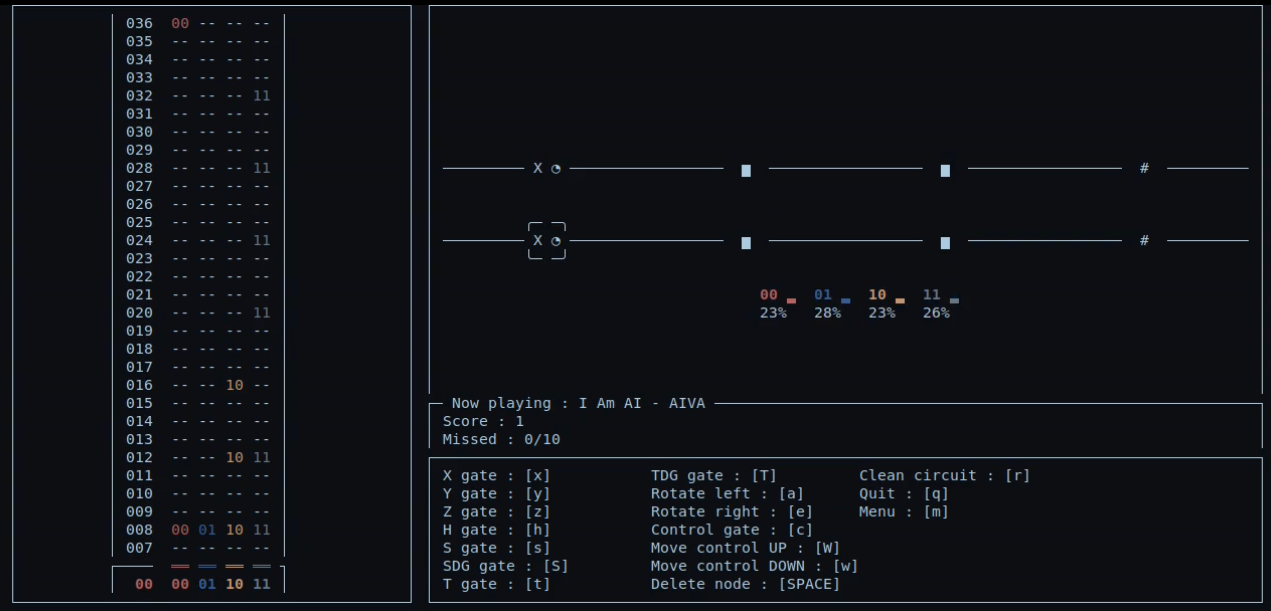
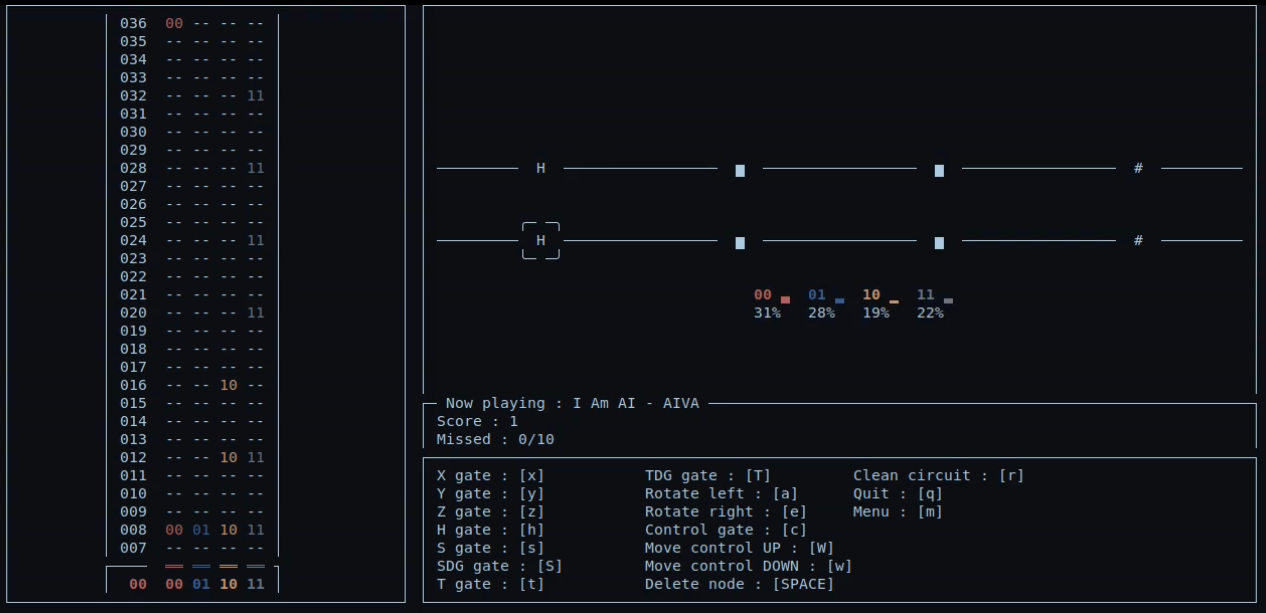
Added more previews

diff --git a/lib/circuit/circuit.py b/lib/circuit/circuit.py
@@ -98,6 +98,7 @@ class Circuit:
         lines = []
         allowed_trace_connectors = [GATE_MAPPING[NODE_TYPES.CTRL_TOP_WIRE],
                                    GATE_MAPPING[NODE_TYPES.CTRL_BOTTOM_WIRE],
+                                   GATE_MAPPING[NODE_TYPES.H],
                                    GATE_MAPPING[NODE_TYPES.NOT_GATE],
                                    GATE_MAPPING[NODE_TYPES.TRACE]]
 

diff --git a/lib/game/game.py b/lib/game/game.py
@@ -143,7 +143,7 @@ class Game:
                 raise
             except CursorMove:
                 pass
-                #screen.clear()
+                screen.clear()
 
             # If the time delta between last loop and now is more than the BPM's delay, then forward the sheet
             if sheet.tick():

diff --git a/README.md b/README.md
@@ -5,10 +5,36 @@ From the [Qpong](https://github.com/HuangJunye/QPong) quantum codebase.
 Compose your quantum circuit to match the track's symbols.
 
 ## Preview
+### Menu
+![demo_ctrl_gate](assets/menu.png)
 
-[demo_full_width](assets/demo_qtap_full_width.png)
+### 2 qbits
+![demo_full_width](assets/demo_qtap_full_width.png)
 
-[demo_ctrl_gate](assets/demo_qtap_full_ctrl.png)
+![demo_qtap_ctrl](assets/demo_qtap_ctrl.png)
+
+### 3 qbits
+![complex_hadarmard_qtap3](assets/complex_hadarmard_qtap3.png)
+
+### Explore the composition with the Circuit Design mode
+![circuit_design](assets/circuit_design.png)
+
+#### A few examples
+![variations_1](assets/variations_1.png)
+
+![variations_2](assets/variations_2.png)
+
+![variations_3](assets/variations_3.png)
+
+![variations_4](assets/variations_4.png)
+
+![variations_5](assets/variations_5.png)
+
+![variations_6](assets/variations_6.png)
+
+![variations_7](assets/variations_7.png)
+
+![variations_8](assets/variations_8.png)
 
 ## Composition
 
